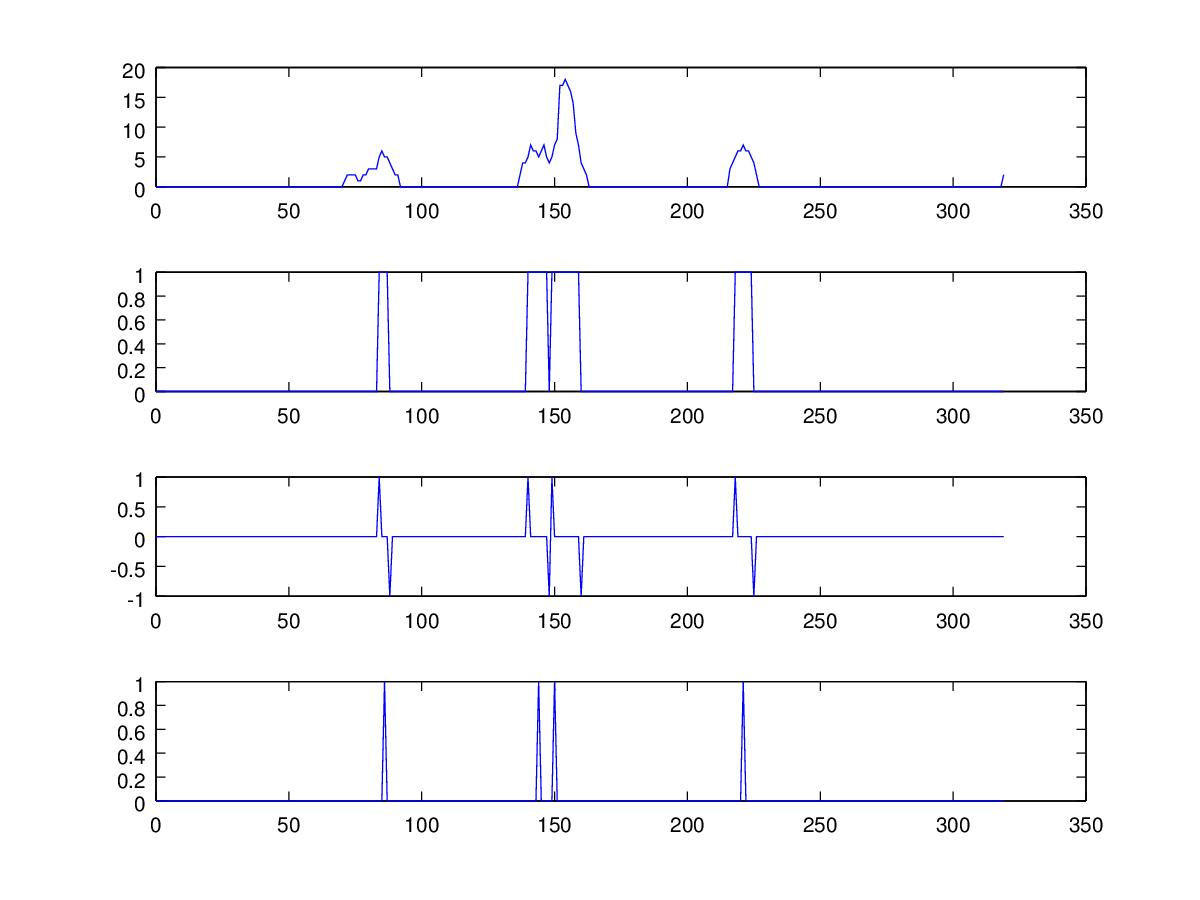
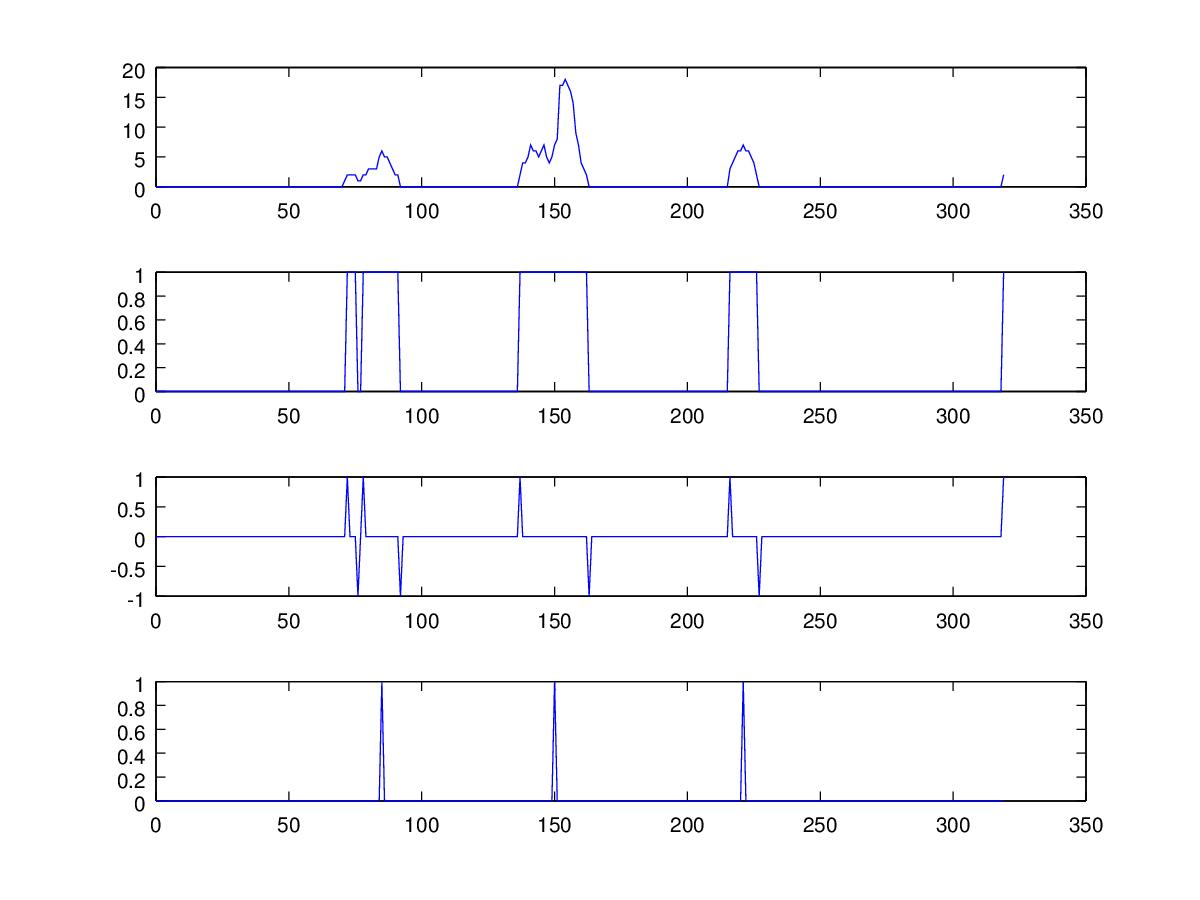
Calibrated file for image 1 and created step images

diff --git a/src/strip_plots.m b/src/strip_plots.m
@@ -3,11 +3,11 @@
 
 v_sum = [0, 0, 0, 0, 0, 0, 0, 0, 0, 0, 0, 0, 0, 0, 0, 0, 0, 0, 0, 0, 0, 0, 0, 0, 0, 0, 0, 0, 0, 0, 0, 0, 0, 0, 0, 0, 0, 0, 0, 0, 0, 0, 0, 0, 0, 0, 0, 0, 0, 0, 0, 0, 0, 0, 0, 0, 0, 0, 0, 0, 0, 0, 0, 0, 0, 0, 0, 0, 0, 0, 0, 1, 2, 2, 2, 2, 1, 1, 2, 2, 3, 3, 3, 3, 5, 6, 5, 5, 4, 3, 2, 2, 0, 0, 0, 0, 0, 0, 0, 0, 0, 0, 0, 0, 0, 0, 0, 0, 0, 0, 0, 0, 0, 0, 0, 0, 0, 0, 0, 0, 0, 0, 0, 0, 0, 0, 0, 0, 0, 0, 0, 0, 0, 0, 0, 0, 0, 2, 4, 4, 5, 7, 6, 6, 5, 6, 7, 5, 4, 5, 7, 8, 17, 17, 18, 17, 16, 14, 9, 7, 4, 3, 2, 0, 0, 0, 0, 0, 0, 0, 0, 0, 0, 0, 0, 0, 0, 0, 0, 0, 0, 0, 0, 0, 0, 0, 0, 0, 0, 0, 0, 0, 0, 0, 0, 0, 0, 0, 0, 0, 0, 0, 0, 0, 0, 0, 0, 0, 0, 0, 0, 0, 0, 0, 0, 0, 3, 4, 5, 6, 6, 7, 6, 6, 5, 4, 2, 0, 0, 0, 0, 0, 0, 0, 0, 0, 0, 0, 0, 0, 0, 0, 0, 0, 0, 0, 0, 0, 0, 0, 0, 0, 0, 0, 0, 0, 0, 0, 0, 0, 0, 0, 0, 0, 0, 0, 0, 0, 0, 0, 0, 0, 0, 0, 0, 0, 0, 0, 0, 0, 0, 0, 0, 0, 0, 0, 0, 0, 0, 0, 0, 0, 0, 0, 0, 0, 0, 0, 0, 0, 0, 0, 0, 0, 0, 0, 0, 0, 0, 0, 0, 0, 0, 0, 0, 0, 0, 0, 0, 2];
 
-v_thresh = [0, 0, 0, 0, 0, 0, 0, 0, 0, 0, 0, 0, 0, 0, 0, 0, 0, 0, 0, 0, 0, 0, 0, 0, 0, 0, 0, 0, 0, 0, 0, 0, 0, 0, 0, 0, 0, 0, 0, 0, 0, 0, 0, 0, 0, 0, 0, 0, 0, 0, 0, 0, 0, 0, 0, 0, 0, 0, 0, 0, 0, 0, 0, 0, 0, 0, 0, 0, 0, 0, 0, 0, 0, 0, 0, 0, 0, 0, 0, 0, 0, 0, 0, 0, 1, 1, 1, 1, 0, 0, 0, 0, 0, 0, 0, 0, 0, 0, 0, 0, 0, 0, 0, 0, 0, 0, 0, 0, 0, 0, 0, 0, 0, 0, 0, 0, 0, 0, 0, 0, 0, 0, 0, 0, 0, 0, 0, 0, 0, 0, 0, 0, 0, 0, 0, 0, 0, 0, 0, 0, 1, 1, 1, 1, 1, 1, 1, 1, 0, 1, 1, 1, 1, 1, 1, 1, 1, 1, 1, 1, 0, 0, 0, 0, 0, 0, 0, 0, 0, 0, 0, 0, 0, 0, 0, 0, 0, 0, 0, 0, 0, 0, 0, 0, 0, 0, 0, 0, 0, 0, 0, 0, 0, 0, 0, 0, 0, 0, 0, 0, 0, 0, 0, 0, 0, 0, 0, 0, 0, 0, 0, 0, 0, 0, 0, 0, 0, 0, 1, 1, 1, 1, 1, 1, 1, 0, 0, 0, 0, 0, 0, 0, 0, 0, 0, 0, 0, 0, 0, 0, 0, 0, 0, 0, 0, 0, 0, 0, 0, 0, 0, 0, 0, 0, 0, 0, 0, 0, 0, 0, 0, 0, 0, 0, 0, 0, 0, 0, 0, 0, 0, 0, 0, 0, 0, 0, 0, 0, 0, 0, 0, 0, 0, 0, 0, 0, 0, 0, 0, 0, 0, 0, 0, 0, 0, 0, 0, 0, 0, 0, 0, 0, 0, 0, 0, 0, 0, 0, 0, 0, 0, 0, 0, 0, 0, 0, 0, 0, 0, 0];
+v_thresh = [0, 0, 0, 0, 0, 0, 0, 0, 0, 0, 0, 0, 0, 0, 0, 0, 0, 0, 0, 0, 0, 0, 0, 0, 0, 0, 0, 0, 0, 0, 0, 0, 0, 0, 0, 0, 0, 0, 0, 0, 0, 0, 0, 0, 0, 0, 0, 0, 0, 0, 0, 0, 0, 0, 0, 0, 0, 0, 0, 0, 0, 0, 0, 0, 0, 0, 0, 0, 0, 0, 0, 0, 1, 1, 1, 1, 0, 0, 1, 1, 1, 1, 1, 1, 1, 1, 1, 1, 1, 1, 1, 1, 0, 0, 0, 0, 0, 0, 0, 0, 0, 0, 0, 0, 0, 0, 0, 0, 0, 0, 0, 0, 0, 0, 0, 0, 0, 0, 0, 0, 0, 0, 0, 0, 0, 0, 0, 0, 0, 0, 0, 0, 0, 0, 0, 0, 0, 1, 1, 1, 1, 1, 1, 1, 1, 1, 1, 1, 1, 1, 1, 1, 1, 1, 1, 1, 1, 1, 1, 1, 1, 1, 1, 0, 0, 0, 0, 0, 0, 0, 0, 0, 0, 0, 0, 0, 0, 0, 0, 0, 0, 0, 0, 0, 0, 0, 0, 0, 0, 0, 0, 0, 0, 0, 0, 0, 0, 0, 0, 0, 0, 0, 0, 0, 0, 0, 0, 0, 0, 0, 0, 0, 0, 0, 0, 0, 1, 1, 1, 1, 1, 1, 1, 1, 1, 1, 1, 0, 0, 0, 0, 0, 0, 0, 0, 0, 0, 0, 0, 0, 0, 0, 0, 0, 0, 0, 0, 0, 0, 0, 0, 0, 0, 0, 0, 0, 0, 0, 0, 0, 0, 0, 0, 0, 0, 0, 0, 0, 0, 0, 0, 0, 0, 0, 0, 0, 0, 0, 0, 0, 0, 0, 0, 0, 0, 0, 0, 0, 0, 0, 0, 0, 0, 0, 0, 0, 0, 0, 0, 0, 0, 0, 0, 0, 0, 0, 0, 0, 0, 0, 0, 0, 0, 0, 0, 0, 0, 0, 0, 1];
 
-v_diff = [0, 0, 0, 0, 0, 0, 0, 0, 0, 0, 0, 0, 0, 0, 0, 0, 0, 0, 0, 0, 0, 0, 0, 0, 0, 0, 0, 0, 0, 0, 0, 0, 0, 0, 0, 0, 0, 0, 0, 0, 0, 0, 0, 0, 0, 0, 0, 0, 0, 0, 0, 0, 0, 0, 0, 0, 0, 0, 0, 0, 0, 0, 0, 0, 0, 0, 0, 0, 0, 0, 0, 0, 0, 0, 0, 0, 0, 0, 0, 0, 0, 0, 0, 0, 1, 0, 0, 0, -1, 0, 0, 0, 0, 0, 0, 0, 0, 0, 0, 0, 0, 0, 0, 0, 0, 0, 0, 0, 0, 0, 0, 0, 0, 0, 0, 0, 0, 0, 0, 0, 0, 0, 0, 0, 0, 0, 0, 0, 0, 0, 0, 0, 0, 0, 0, 0, 0, 0, 0, 0, 1, 0, 0, 0, 0, 0, 0, 0, -1, 1, 0, 0, 0, 0, 0, 0, 0, 0, 0, 0, -1, 0, 0, 0, 0, 0, 0, 0, 0, 0, 0, 0, 0, 0, 0, 0, 0, 0, 0, 0, 0, 0, 0, 0, 0, 0, 0, 0, 0, 0, 0, 0, 0, 0, 0, 0, 0, 0, 0, 0, 0, 0, 0, 0, 0, 0, 0, 0, 0, 0, 0, 0, 0, 0, 0, 0, 0, 0, 1, 0, 0, 0, 0, 0, 0, -1, 0, 0, 0, 0, 0, 0, 0, 0, 0, 0, 0, 0, 0, 0, 0, 0, 0, 0, 0, 0, 0, 0, 0, 0, 0, 0, 0, 0, 0, 0, 0, 0, 0, 0, 0, 0, 0, 0, 0, 0, 0, 0, 0, 0, 0, 0, 0, 0, 0, 0, 0, 0, 0, 0, 0, 0, 0, 0, 0, 0, 0, 0, 0, 0, 0, 0, 0, 0, 0, 0, 0, 0, 0, 0, 0, 0, 0, 0, 0, 0, 0, 0, 0, 0, 0, 0, 0, 0, 0, 0, 0, 0, 0, 0];
+v_diff = [0, 0, 0, 0, 0, 0, 0, 0, 0, 0, 0, 0, 0, 0, 0, 0, 0, 0, 0, 0, 0, 0, 0, 0, 0, 0, 0, 0, 0, 0, 0, 0, 0, 0, 0, 0, 0, 0, 0, 0, 0, 0, 0, 0, 0, 0, 0, 0, 0, 0, 0, 0, 0, 0, 0, 0, 0, 0, 0, 0, 0, 0, 0, 0, 0, 0, 0, 0, 0, 0, 0, 0, 1, 0, 0, 0, -1, 0, 1, 0, 0, 0, 0, 0, 0, 0, 0, 0, 0, 0, 0, 0, -1, 0, 0, 0, 0, 0, 0, 0, 0, 0, 0, 0, 0, 0, 0, 0, 0, 0, 0, 0, 0, 0, 0, 0, 0, 0, 0, 0, 0, 0, 0, 0, 0, 0, 0, 0, 0, 0, 0, 0, 0, 0, 0, 0, 0, 1, 0, 0, 0, 0, 0, 0, 0, 0, 0, 0, 0, 0, 0, 0, 0, 0, 0, 0, 0, 0, 0, 0, 0, 0, 0, -1, 0, 0, 0, 0, 0, 0, 0, 0, 0, 0, 0, 0, 0, 0, 0, 0, 0, 0, 0, 0, 0, 0, 0, 0, 0, 0, 0, 0, 0, 0, 0, 0, 0, 0, 0, 0, 0, 0, 0, 0, 0, 0, 0, 0, 0, 0, 0, 0, 0, 0, 0, 0, 1, 0, 0, 0, 0, 0, 0, 0, 0, 0, 0, -1, 0, 0, 0, 0, 0, 0, 0, 0, 0, 0, 0, 0, 0, 0, 0, 0, 0, 0, 0, 0, 0, 0, 0, 0, 0, 0, 0, 0, 0, 0, 0, 0, 0, 0, 0, 0, 0, 0, 0, 0, 0, 0, 0, 0, 0, 0, 0, 0, 0, 0, 0, 0, 0, 0, 0, 0, 0, 0, 0, 0, 0, 0, 0, 0, 0, 0, 0, 0, 0, 0, 0, 0, 0, 0, 0, 0, 0, 0, 0, 0, 0, 0, 0, 0, 0, 0, 0, 0, 0, 0, 0, 1];
 
-v_mid = [0, 0, 0, 0, 0, 0, 0, 0, 0, 0, 0, 0, 0, 0, 0, 0, 0, 0, 0, 0, 0, 0, 0, 0, 0, 0, 0, 0, 0, 0, 0, 0, 0, 0, 0, 0, 0, 0, 0, 0, 0, 0, 0, 0, 0, 0, 0, 0, 0, 0, 0, 0, 0, 0, 0, 0, 0, 0, 0, 0, 0, 0, 0, 0, 0, 0, 0, 0, 0, 0, 0, 0, 0, 0, 0, 0, 0, 0, 0, 0, 0, 0, 0, 0, 0, 0, 1, 0, 0, 0, 0, 0, 0, 0, 0, 0, 0, 0, 0, 0, 0, 0, 0, 0, 0, 0, 0, 0, 0, 0, 0, 0, 0, 0, 0, 0, 0, 0, 0, 0, 0, 0, 0, 0, 0, 0, 0, 0, 0, 0, 0, 0, 0, 0, 0, 0, 0, 0, 0, 0, 0, 0, 0, 0, 1, 0, 0, 0, 0, 0, 1, 0, 0, 0, 0, 0, 0, 0, 0, 0, 0, 0, 0, 0, 0, 0, 0, 0, 0, 0, 0, 0, 0, 0, 0, 0, 0, 0, 0, 0, 0, 0, 0, 0, 0, 0, 0, 0, 0, 0, 0, 0, 0, 0, 0, 0, 0, 0, 0, 0, 0, 0, 0, 0, 0, 0, 0, 0, 0, 0, 0, 0, 0, 0, 0, 0, 0, 0, 0, 0, 0, 1, 0, 0, 0, 0, 0, 0, 0, 0, 0, 0, 0, 0, 0, 0, 0, 0, 0, 0, 0, 0, 0, 0, 0, 0, 0, 0, 0, 0, 0, 0, 0, 0, 0, 0, 0, 0, 0, 0, 0, 0, 0, 0, 0, 0, 0, 0, 0, 0, 0, 0, 0, 0, 0, 0, 0, 0, 0, 0, 0, 0, 0, 0, 0, 0, 0, 0, 0, 0, 0, 0, 0, 0, 0, 0, 0, 0, 0, 0, 0, 0, 0, 0, 0, 0, 0, 0, 0, 0, 0, 0, 0, 0, 0, 0, 0, 0, 0, 0];
+v_mid = [0, 0, 0, 0, 0, 0, 0, 0, 0, 0, 0, 0, 0, 0, 0, 0, 0, 0, 0, 0, 0, 0, 0, 0, 0, 0, 0, 0, 0, 0, 0, 0, 0, 0, 0, 0, 0, 0, 0, 0, 0, 0, 0, 0, 0, 0, 0, 0, 0, 0, 0, 0, 0, 0, 0, 0, 0, 0, 0, 0, 0, 0, 0, 0, 0, 0, 0, 0, 0, 0, 0, 0, 0, 0, 0, 0, 0, 0, 0, 0, 0, 0, 0, 0, 0, 1, 0, 0, 0, 0, 0, 0, 0, 0, 0, 0, 0, 0, 0, 0, 0, 0, 0, 0, 0, 0, 0, 0, 0, 0, 0, 0, 0, 0, 0, 0, 0, 0, 0, 0, 0, 0, 0, 0, 0, 0, 0, 0, 0, 0, 0, 0, 0, 0, 0, 0, 0, 0, 0, 0, 0, 0, 0, 0, 0, 0, 0, 0, 0, 0, 1, 0, 0, 0, 0, 0, 0, 0, 0, 0, 0, 0, 0, 0, 0, 0, 0, 0, 0, 0, 0, 0, 0, 0, 0, 0, 0, 0, 0, 0, 0, 0, 0, 0, 0, 0, 0, 0, 0, 0, 0, 0, 0, 0, 0, 0, 0, 0, 0, 0, 0, 0, 0, 0, 0, 0, 0, 0, 0, 0, 0, 0, 0, 0, 0, 0, 0, 0, 0, 0, 0, 1, 0, 0, 0, 0, 0, 0, 0, 0, 0, 0, 0, 0, 0, 0, 0, 0, 0, 0, 0, 0, 0, 0, 0, 0, 0, 0, 0, 0, 0, 0, 0, 0, 0, 0, 0, 0, 0, 0, 0, 0, 0, 0, 0, 0, 0, 0, 0, 0, 0, 0, 0, 0, 0, 0, 0, 0, 0, 0, 0, 0, 0, 0, 0, 0, 0, 0, 0, 0, 0, 0, 0, 0, 0, 0, 0, 0, 0, 0, 0, 0, 0, 0, 0, 0, 0, 0, 0, 0, 0, 0, 0, 0, 0, 0, 0, 0, 0, 0];
 
 x = [0:length(v_sum)-1]
 
@@ -16,6 +16,6 @@ subplot(4, 1, 2); plot(x, v_thresh);
 subplot(4, 1, 3); plot(x, v_diff);
 subplot(4, 1, 4); plot(x, v_mid);
 
-saveas(gcf, '5_image_plots_4.jpg')
+saveas(gcf, '../img/5_image_plots_4.jpg')
 
 pause;

diff --git a/src/line_detect.py b/src/line_detect.py
@@ -14,12 +14,12 @@ gt_data_path = os.path.abspath('../CRBD/GT data')
 image_out_path = os.path.abspath('../img')
 
 NUMBER_OF_STRIPS = 10             # How many strips the image is split into
-SUM_THRESH = 5                    # How much green in a strip before it's a plant
-DIFF_NOISE_THRESH = 4             # How close can two sections be?
+SUM_THRESH = 2                    # How much green in a strip before it's a plant
+DIFF_NOISE_THRESH = 8             # How close can two sections be?
 
-HOUGH_RHO = 8                     # Distance resolution of the accumulator in pixels
+HOUGH_RHO = 5                     # Distance resolution of the accumulator in pixels
 HOUGH_ANGLE = math.pi/180         # Angle resolution of the accumulator in radians
-HOUGH_THRESH = 8                  # Accumulator threshold parameter. Only those lines are returned that get enough votes
+HOUGH_THRESH = 6                  # Accumulator threshold parameter. Only those lines are returned that get enough votes
 
 ANGLE_THRESH = math.pi*(30.0/180) # How steep angles the crop rows can be in radians
 
